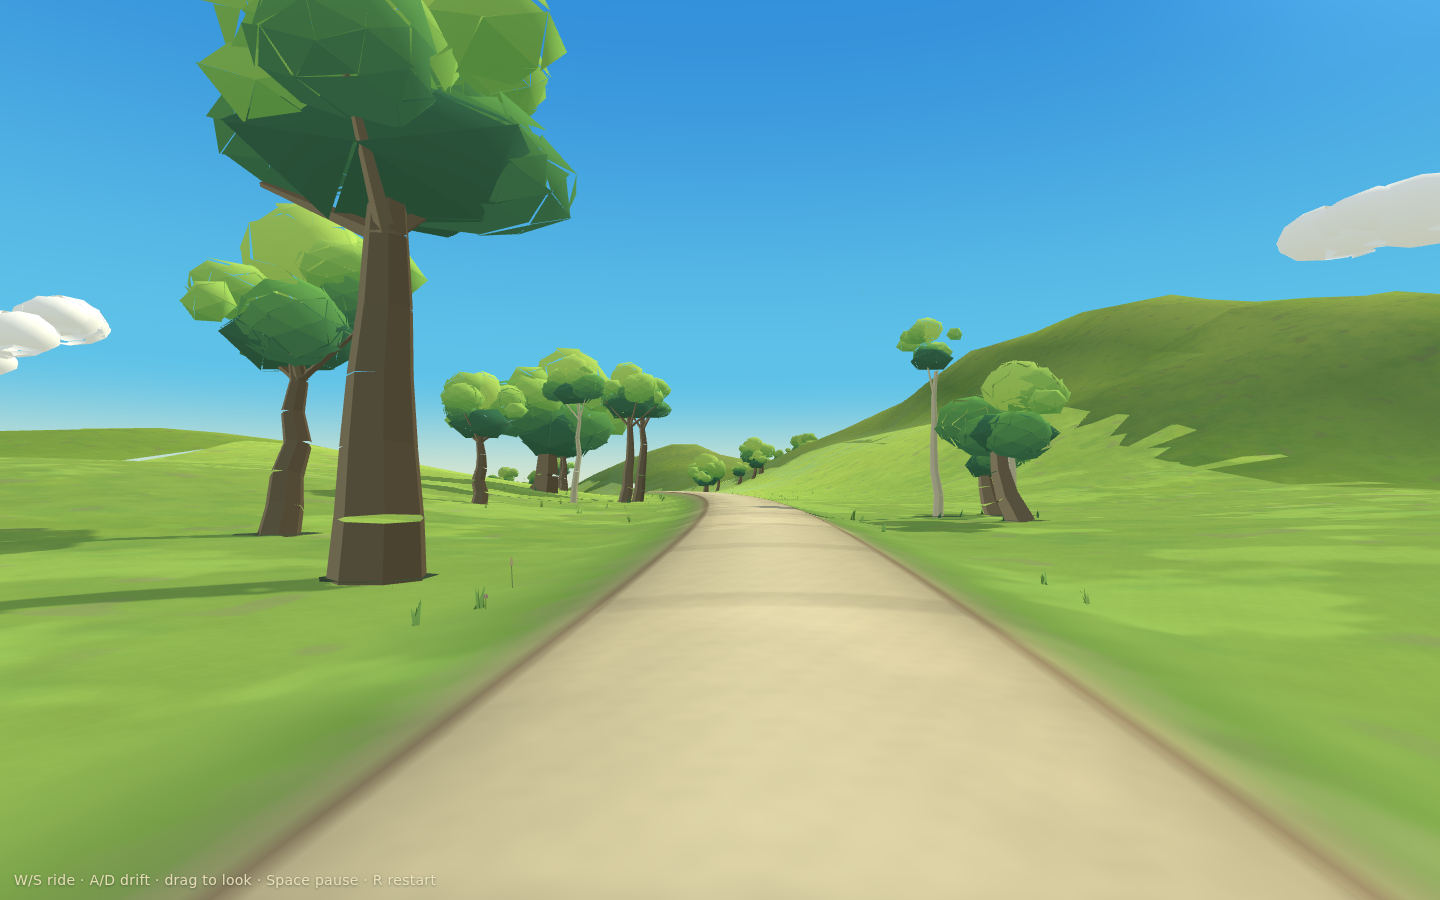
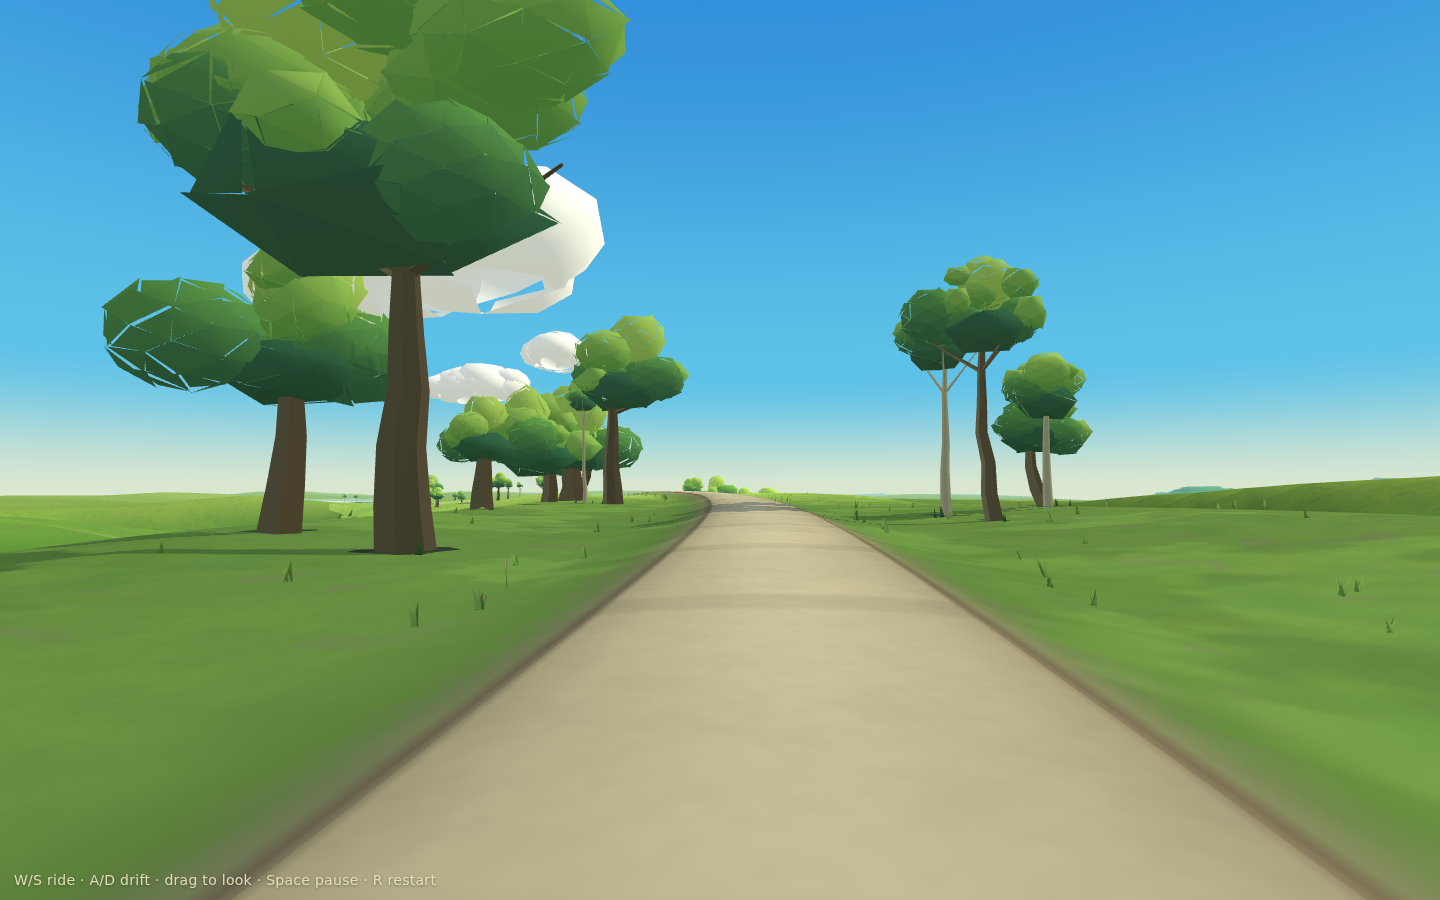
Summerglass Island 01: revision pass — welded bark, held opening, stacked air
Five fixes from a stills review against the island's own rulebook, plus the
diagnosis the review demanded:

* The pale ring on trunks was not a material seam: tube() built each segment
  in its own reference frame, so every jittered bend rotated adjacent rings
  apart and opened a horizontal slit of sky through the bark. Rings are now
  parallel-transported and shared between segments, and every tube is closed
  at the top. The defect was widest exactly where trunks were largest — the
  tier-1 giants at the verge — which is why the two findings arrived together.
* Nothing the rider passes within twelve metres is ever demoted below tier 2;
  the per-band caps still bound spend, but not at the rider's nose. The old
  boundary row stays tier 1 at its honest twenty metres.
* Open-field growth is held to patches and the verge: stricter coarse-field
  gates beyond ten metres, shorter tufts, and seedheads planted in twos and
  threes — a lone stalk in an open field reads as a post.
* The opening no longer runs dead straight at a flat horizon: an opening bow
  on its own PRNG stream bends the road away inside the first two hundred
  metres, a three-knoll threshold bank holds the meadow side, and the host
  approach carries a gentle bend of its own. No objects were added to the
  stretch.
* The far country stacks again: taller silhouette masses in two depth rings
  with honest atmospheric lift, refused wherever they would half-bury on a
[…]

diff --git a/island-01.html b/island-01.html
@@ -184,12 +184,19 @@ const BOWS=[];
 }
 const WOB={ wl:ROUTE.r(300,420), a:1/ROUTE.r(1600,2400), ph:ROUTE.r(0,TAU) };
 H.route.feed(WOB.wl,WOB.a,WOB.ph);
+// the opening is composed, not sampled: the road bends away inside the first
+// two hundred metres so the rider is promised somewhere rather than shown it.
+// Its own stream, so it can never perturb what was already planned.
+const OPENING=makeStream('plan/opening');
+const OPEN_BOW=(OPENING.chance(0.5)?1:-1)/OPENING.r(360,450);
+H.route.feed(OPEN_BOW);
 function curvatureAt(s){
   let k=0;
   for(const w of BOWS){
     if(s<w.s0||s>w.s1) continue;
     k+=w.a*Math.sin(Math.PI*(s-w.s0)/(w.s1-w.s0));
   }
+  k+=OPEN_BOW*Math.sin(Math.PI*clamp((s-16)/225,0,1));
   k+=WOB.a*Math.sin(TAU*s/WOB.wl+WOB.ph)*smooth(40,180,s)*(1-smooth(L_ISL-180,L_ISL-40,s));
   return k;
 }
@@ -514,6 +521,19 @@ function corridorProfile(a,cut){
   h-=0.44*Math.exp(-Math.pow((a-(RH+4.0))/2.4,2))*clamp(cut,0,1)*smooth(RH,RH+1.4,a);
   return h;
 }
+const THRESH_BANK=(()=>{
+  const st=makeStream('plan/threshold');
+  const out=[];
+  let sb=st.r(28,70);
+  for(let i=0;i<3;i++){
+    const fr=getFrame(LFRAME,clamp(sb,0,LFRAME.len-1));
+    const off=(st.r(28,58))*-S_LAND;
+    out.push({ x:fr.x+fr.lx*off, z:fr.z+fr.lz*off, r:st.r(40,62), h:st.r(2.4,3.9) });
+    sb+=st.r(78,112);
+  }
+  for(const b of out) H.terrain.feed(b.x,b.z,b.r,b.h);
+  return out;
+})();
 function reliefL(x,z,d){
   const g=smooth(16,125,d);
   let r=(fbmL(x/520+11.7,z/520+2.9)-0.5)*120;
@@ -522,6 +542,10 @@ function reliefL(x,z,d){
   r*=g;
   { const dx=x-KNOLL.x, dz=z-KNOLL.z;
     r+=KNOLL.h*Math.exp(-(dx*dx+dz*dz)/(KNOLL.r*KNOLL.r))*smooth(30,110,d); }
+  for(const b of THRESH_BANK){
+    const dx=x-b.x, dz=z-b.z;
+    r+=b.h*Math.exp(-(dx*dx+dz*dz)/(b.r*b.r))*smooth(EXCL+4,EXCL+16,d);
+  }
   // the combe: a long soft cut, held off the corridor
   { const cd=combeDist(x,z);
     r-=COMBE.depth*(1-smooth(COMBE.w*0.3,COMBE.w,cd))*smooth(EXCL+7,EXCL+20,d); }
@@ -922,7 +946,7 @@ const QCFG={
   standard: { row:5.0, tile:16, ahead:540, behind:220, under:0.62, nearD:17, midD:70, farD:300, shadow:1024, part:1.0, tuftBand:14, capNear:5, capMid:11, bandTreeCap:16, lobe:1, view:1620, roundMid:6, dpr:1.25 },
   // high spends its budget on fidelity — shadow resolution, device pixels,
   // near articulation, view reach — not on more geometry than standard
-  high:     { row:5.0, tile:14, ahead:560, behind:230, under:0.70, nearD:22, midD:78, farD:320, shadow:2048, part:1.3, tuftBand:14, capNear:6, capMid:11, bandTreeCap:15, lobe:1, view:1900, roundMid:7, dpr:1.5 },
+  high:     { row:5.0, tile:14, ahead:520, behind:220, under:0.64, nearD:22, midD:78, farD:320, shadow:2048, part:1.3, tuftBand:13, capNear:6, capMid:10, bandTreeCap:14, lobe:1, view:1900, roundMid:7, dpr:1.5 },
 }[readQuality()];
 H.real.feed(QUALITY); for(const k of Object.keys(QCFG)) H.real.feed(k,QCFG[k]);
 
@@ -969,7 +993,8 @@ const XFORMS=[];
   };
   // approach: the host's grade, easing to the island's declared entry grade
   const eg=PLACEMENT.entryGrade, ig=ENTRY_POSE.gradePct/100;
-  const A=walk(APPROACH_LEN,(s)=>lerp(eg,ig,smooth(APPROACH_LEN-120,APPROACH_LEN-16,s)),null);
+  const A=walk(APPROACH_LEN,(s)=>lerp(eg,ig,smooth(APPROACH_LEN-120,APPROACH_LEN-16,s)),
+    (s)=>0.0011*Math.sin(s*0.013+0.9)*(1-smooth(APPROACH_LEN-90,APPROACH_LEN-10,s)));
   SEGMENTS.push({F:A,island:false,copy:-1});
   for(let k=0;k<PLACEMENT.copies;k++){
     // mount copy k at the walker's pose
@@ -1106,7 +1131,7 @@ function islandInfluence(lx,lz,riL){
 }
 function hostGround(x,z){
   const ri=routeInfoW(x,z);
-  const base=ri.y+(fbmL(x/360+51.3,z/360+27.9)-0.5)*26*smooth(16,125,ri.d)
+  const base=ri.y+(fbmL(x/430+51.3,z/430+27.9)-0.5)*42*smooth(16,140,ri.d)
                 +(fbmL(x/130+11.1,z/130+43.7)-0.5)*9*smooth(14,60,ri.d);
   const w=1-smooth(8.5,40,ri.d);
   let y=base;
@@ -1645,29 +1670,63 @@ function bufGeo(B){
 // host sun's job, and the island must not bake a particular placement in
 const barkXZ=new THREE.Vector2(0.55,0.835).normalize();
 const _u=new THREE.Vector3(), _v=new THREE.Vector3(), _dir=new THREE.Vector3(), _ref=new THREE.Vector3();
+// One reference frame parallel-transported along the whole tube, and one ring
+// of vertices per point SHARED by both adjacent segments. A per-segment frame
+// let every jittered bend rotate its rings apart, opening a horizontal slit of
+// sky through the bark — the pale ring artifact on every large trunk.
 function tube(B,pts,r0,r1,sides,cSun,cShade){
+  const n=pts.length;
+  if(n<2) return;
   _ref.set(1,0,0);
   {
-    const d0=new THREE.Vector3().subVectors(pts[pts.length-1],pts[0]);
+    const d0=new THREE.Vector3().subVectors(pts[n-1],pts[0]);
     if(Math.abs(d0.x)>Math.abs(d0.z)) _ref.set(0,0,1);
   }
-  for(let i=0;i<pts.length-1;i++){
-    const t0=i/(pts.length-1), t1=(i+1)/(pts.length-1);
-    const ra=lerp(r0,r1,t0), rb=lerp(r0,r1,t1);
-    const A=pts[i], Bp=pts[i+1];
-    _dir.subVectors(Bp,A); if(_dir.lengthSq()<1e-8) continue; _dir.normalize();
-    _u.copy(_ref).cross(_dir);
-    if(_u.lengthSq()<1e-4){ _u.set(0,1,0).cross(_dir); }
-    if(_u.lengthSq()<1e-4){ _u.set(1,0,0); }
-    _u.normalize(); _v.crossVectors(_dir,_u).normalize();
+  const rings=[];
+  let pu=null,pv=null;
+  for(let i=0;i<n;i++){
+    const A=pts[Math.max(0,i-1)], Bp=pts[Math.min(n-1,i+1)];
+    _dir.subVectors(Bp,A); if(_dir.lengthSq()<1e-10) _dir.set(0,1,0); _dir.normalize();
+    if(pu===null){
+      _u.copy(_ref).cross(_dir);
+      if(_u.lengthSq()<1e-4){ _u.set(0,1,0).cross(_dir); }
+      if(_u.lengthSq()<1e-4){ _u.set(1,0,0); }
+      _u.normalize();
+    } else {
+      // transport the previous u: remove its component along the new direction
+      _u.copy(pu).addScaledVector(_dir,-pu.dot(_dir));
+      if(_u.lengthSq()<1e-6) _u.copy(pv);
+      _u.normalize();
+    }
+    _v.crossVectors(_dir,_u).normalize();
+    pu=_u.clone(); pv=_v.clone();
+    const r=lerp(r0,r1,i/(n-1));
+    const ring=[];
     for(let j=0;j<sides;j++){
-      const a0=j/sides*TAU, a1=(j+1)/sides*TAU;
-      const o0x=_u.x*Math.cos(a0)+_v.x*Math.sin(a0), o0y=_u.y*Math.cos(a0)+_v.y*Math.sin(a0), o0z=_u.z*Math.cos(a0)+_v.z*Math.sin(a0);
-      const o1x=_u.x*Math.cos(a1)+_v.x*Math.sin(a1), o1y=_u.y*Math.cos(a1)+_v.y*Math.sin(a1), o1z=_u.z*Math.cos(a1)+_v.z*Math.sin(a1);
-      const face=clamp(0.5+0.62*(o0x*barkXZ.x+o0z*barkXZ.y),0,1);
+      const a=j/sides*TAU;
+      const ox=_u.x*Math.cos(a)+_v.x*Math.sin(a), oy=_u.y*Math.cos(a)+_v.y*Math.sin(a), oz=_u.z*Math.cos(a)+_v.z*Math.sin(a);
+      ring.push([pts[i].x+ox*r,pts[i].y+oy*r,pts[i].z+oz*r,ox,oz]);
+    }
+    rings.push(ring);
+  }
+  for(let i=0;i<n-1;i++){
+    const Ra=rings[i], Rb=rings[i+1];
+    for(let j=0;j<sides;j++){
+      const k=(j+1)%sides;
+      const face=clamp(0.5+0.62*(Ra[j][3]*barkXZ.x+Ra[j][4]*barkXZ.y),0,1);
       const cc=cShade.clone().lerp(cSun,face);
-      pushQuad(B,[A.x+o0x*ra,A.y+o0y*ra,A.z+o0z*ra],[A.x+o1x*ra,A.y+o1y*ra,A.z+o1z*ra],
-                 [Bp.x+o1x*rb,Bp.y+o1y*rb,Bp.z+o1z*rb],[Bp.x+o0x*rb,Bp.y+o0y*rb,Bp.z+o0z*rb],cc);
+      pushQuad(B,[Ra[j][0],Ra[j][1],Ra[j][2]],[Ra[k][0],Ra[k][1],Ra[k][2]],
+                 [Rb[k][0],Rb[k][1],Rb[k][2]],[Rb[j][0],Rb[j][1],Rb[j][2]],cc);
+    }
+  }
+  // close the top so an open cylinder can never show sky through its own bore
+  {
+    const Rt=rings[n-1], tip=pts[n-1];
+    const cc=cShade.clone().lerp(cSun,0.5);
+    for(let j=0;j<sides;j++){
+      const k=(j+1)%sides;
+      pushTri(B,[Rt[j][0],Rt[j][1],Rt[j][2]],[Rt[k][0],Rt[k][1],Rt[k][2]],
+        [tip.x,tip.y+0.02,tip.z],cc);
     }
   }
 }
@@ -1829,7 +1888,7 @@ function buildTree(B,t,tier,minCrownY,round){
     for(let i=0;i<nF;i++){
       const a=st.r(0,TAU), rr=crownR*st.r(0.55,0.98);
       addFruitDot(B,top.x+Math.sin(a)*rr,crownY+crownR*st.r(-0.42,0.28),top.z+Math.cos(a)*rr,
-        st.r(0.085,0.125),st.chance(0.6)?C_FRUIT:C_FRUIT_SH);
+        st.r(0.13,0.18),st.chance(0.6)?C_FRUIT:C_FRUIT_SH);
     }
   }
   return {H:Ht,crownY,crownR};
@@ -2133,7 +2192,7 @@ for(let k=0;k<XFORMS.length;k++){
     if(t.formation==='dappled-gate'){ tier=2; FORMATION_STAT.gates++; }
     else if(t.formation==='wind-sisters'){ tier=1; FORMATION_STAT.sisters++; }
     else if(t.fam==='orchard'){ tier=(t.d<30)?1:0; round=(t.d<30); FORMATION_STAT.orchard++; }
-    else { tier=(t.d<34)?2:1; FORMATION_STAT.boundary++; }
+    else { tier=1; FORMATION_STAT.boundary++; }   // ~20 m out: articulated crowns, welded trunks
     const overhang=(t.d<EXCL+10)?(t.roadY+9.0):undefined;
     buildTree(tier===2?nearB:massB,t,tier,overhang,round);
     FORMATION_STAT.built++;
@@ -2186,7 +2245,10 @@ function realizeBand(copy,bi){
     if(nAll>=QCFG.bandTreeCap) break;
     nAll++;
     let tier=(t.d<=QCFG.nearD)?2:((t.d<=QCFG.midD)?1:0);
-    if(tier===2&&nNear>=QCFG.capNear) tier=1;
+    // the caps bound spend, but never below the rider's nose: a tier-1 trunk
+    // at the verge is a slab with a sparse crown, and the rule is written —
+    // anything passed within ~10 m stays articulated
+    if(tier===2&&nNear>=QCFG.capNear&&t.d>12) tier=1;
     if(tier===1&&nMid>=QCFG.capMid) tier=0;
     const overhang=(t.d<EXCL+10)?(t.roadY+9.0):undefined;
     if(tier===2){ buildTree(nearB,t,2,overhang,true); local.articulatedNear++; nNear++; }
@@ -2245,9 +2307,10 @@ function realizeBand(copy,bi){
         continue;
       }
       const patch=fbmE(x/64+3.7,z/64+21.1);
-      if(!bank&&patch<0.50-moist*0.16-enc*0.14) continue;
+      const openField=(ri.d>10&&enc<0.35&&moist<0.3);
+      if(!bank&&patch<(openField?0.56:0.50)-moist*0.16-enc*0.14) continue;
       const mask=fbmE(x/19+7,z/19+13);
-      if(!bank&&mask<0.34-slope*0.5-moist*0.12-(patch-0.50)*0.8) continue;
+      if(!bank&&mask<(openField?0.40:0.34)-slope*0.5-moist*0.12-(patch-0.50)*0.8) continue;
       if(bank&&st.chance(0.45)) continue;
       { let underTree=false;
         for(const tt of bandTreesL[bi]){
@@ -2274,15 +2337,19 @@ function realizeBand(copy,bi){
         if(r2<0.62){ addFern(uB,x,y,z,st,mixc(PAL.woodDeep,PAL.leafShade,0.4),mixc(PAL.leafShade,PAL.meadow,0.35),st.r(0.46,0.92)); local.ferns++; }
         else if(r2<0.86){ addTuft(uB,x,y,z,st,gc.clone().lerp(col(PAL.leafShade),0.34),gc.clone().lerp(col(PAL.meadow),0.34),st.r(0.28,0.58),st.i(4,6)); local.understory++; }
         else { addBlob(uB,x,y+0.18,z,st,st.r(0.42,0.78),st.r(0.30,0.52),st.r(0.42,0.78),mixc(PAL.meadow,PAL.leafShade,0.30),mixc(PAL.leafShade,PAL.woodDeep,0.26),0.18); local.shrubs++; }
-      } else if(enc<0.30&&slope<0.30&&r2<0.30){
-        addSeedhead(uB,x,y,z,st,mixc(PAL.meadow,PAL.road,0.34),mixc(PAL.road,0xFFE79A,0.35),st.r(0.62,1.12));
-        local.seedheads++;
-      } else if(enc<0.34&&r2<0.24){
+      } else if(enc<0.30&&slope<0.30&&r2<(ri.d>10?0.16:0.30)){
+        // seedheads in twos and threes: a lone stalk in open field is a post
+        const nSt=st.i(2,3);
+        for(let q=0;q<nSt;q++)
+          addSeedhead(uB,x+st.r(-0.9,0.9),y,z+st.r(-0.9,0.9),st,mixc(PAL.meadow,PAL.road,0.34),mixc(PAL.road,0xFFE79A,0.35),st.r(0.55,0.95));
+        local.seedheads+=nSt;
+      } else if(enc<0.34&&r2<(ri.d>10?0.16:0.24)){
         addFlower(uB,x,y,z,st,mixc(PAL.meadow,PAL.sunGrass,0.5),
           st.pick([mixc(PAL.blossom,PAL.meadow,0.30),mixc(PAL.blossom,0xfff3e6,0.35),mixc(PAL.road,PAL.sunGrass,0.40),mixc(PAL.road,0xFFDE79,0.35)]),st.r(0.28,0.50));
         local.flowers++;
       } else {
-        addTuft(uB,x,y,z,st,gc.clone().lerp(col(PAL.leafShade),0.30),gc.clone().lerp(col(PAL.sunGrass),0.34),st.r(0.30,0.62),st.i(4,6));
+        addTuft(uB,x,y,z,st,gc.clone().lerp(col(PAL.leafShade),0.30),gc.clone().lerp(col(PAL.sunGrass),0.34),
+          st.r(0.30,ri.d>10?0.48:0.62),st.i(4,6));
         local.understory++;
       }
     }
@@ -2439,8 +2506,8 @@ const cloudMeshes=[];
       }
     }
   }
-  for(const bandCfg of [{n:5,rr:[700,1500],h:[260,330],span:[260,420],speed:0.46},
-                        {n:6,rr:[1500,3000],h:[340,470],span:[190,320],speed:0.24}]){
+  for(const bandCfg of [{n:6,rr:[700,1500],h:[260,330],span:[300,470],speed:0.46},
+                        {n:6,rr:[1500,3000],h:[340,470],span:[210,340],speed:0.24}]){
     const B=Buf(); B.sway=0;
     for(let i=0;i<bandCfg.n;i++){
       const st=subStream('cloud',bandCfg.n,i);
@@ -2469,24 +2536,31 @@ const cloudMeshes=[];
 // far country: layered silhouette masses on the world's own shoulders
 {
   const B=Buf(); B.sway=0.10;
-  for(let i=0;i<26;i++){
-    const st=subStream('farmass',i);
-    const a=st.r(0,TAU), rr=st.r(600,1350);
-    const x=worldC.x+Math.sin(a)*rr, z=worldC.z+Math.cos(a)*rr;
-    if(routeInfoW(x,z).d<420) continue;
-    const y=groundW(x,z);
-    const len=st.r(150,340), rot=st.r(0,TAU), h=st.r(9,15), depth=st.r(40,80);
-    const n=Math.max(3,Math.round(len/st.r(18,30)));
-    const dirx=Math.sin(rot), dirz=Math.cos(rot);
-    for(let k=0;k<=n;k++){
-      const f=k/n-0.5;
-      const px=x+dirx*len*f+st.r(-7,7), pz=z+dirz*len*f+st.r(-7,7);
-      const py=groundW(px,pz);
-      const hh=h*st.r(0.72,1.28);
-      const rw=st.r(0.55,0.95)*depth;
-      const cool=mixc(PAL.leafShade,PAL.woodDeep,0.30).lerp(col(PAL.sky),0.10+st.r(0,0.06));
-      const lit=mixc(PAL.meadow,PAL.leafShade,0.30+st.r(0,0.18));
-      lobe(B,px,py+hh*0.62,pz,rw,hh*0.55,rw*st.r(0.7,1.1),st,lit,cool,0.14,0,0.12);
+  const RINGS=[{n:22,rr:[600,1250],lift:0.16},{n:18,rr:[1250,2100],lift:0.26}];
+  let fi=0;
+  for(const ring of RINGS){
+    for(let i=0;i<ring.n;i++,fi++){
+      const st=subStream('farmass',fi);
+      const a=st.r(0,TAU), rr=st.r(ring.rr[0],ring.rr[1]);
+      const x=worldC.x+Math.sin(a)*rr, z=worldC.z+Math.cos(a)*rr;
+      if(routeInfoW(x,z).d<420) continue;
+      const len=st.r(150,360), rot=st.r(0,TAU), h=st.r(13,21), depth=st.r(46,90);
+      // a mass lying across a steep rise half-buries and reads as a puddle of
+      // canopy colour: measure the ground swing along its length and skip
+      const dirx=Math.sin(rot), dirz=Math.cos(rot);
+      const y0=groundW(x-dirx*len*0.5,z-dirz*len*0.5), y1=groundW(x+dirx*len*0.5,z+dirz*len*0.5);
+      if(Math.abs(y1-y0)>h*0.7) continue;
+      const n=Math.max(3,Math.round(len/st.r(18,30)));
+      for(let k=0;k<=n;k++){
+        const f=k/n-0.5;
+        const px=x+dirx*len*f+st.r(-7,7), pz=z+dirz*len*f+st.r(-7,7);
+        const py=groundW(px,pz);
+        const hh=h*st.r(0.72,1.28);
+        const rw=st.r(0.55,0.95)*depth;
+        const cool=mixc(PAL.leafShade,PAL.woodDeep,0.26).lerp(col(PAL.sky),ring.lift+st.r(0,0.08));
+        const lit=mixc(PAL.meadow,PAL.leafShade,0.30+st.r(0,0.18)).lerp(col(PAL.sky),ring.lift*0.55);
+        lobe(B,px,py+hh*0.60,pz,rw,hh*0.52,rw*st.r(0.7,1.1),st,lit,cool,0.14,0,0.12);
+      }
     }
   }
   const m=new THREE.Mesh(bufGeo(B),treeMatFar);
